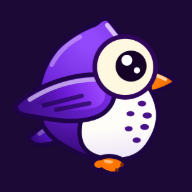
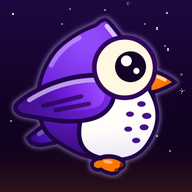
v0.12.77: ШАЗАМ не отменяет опасные трубы и водонапор; новая иконка приложения

diff --git a/app.html b/app.html
@@ -8,26 +8,27 @@
     <meta name="supported-color-schemes" content="only light">
     <meta name="theme-color" content="#140326">
     <link rel="manifest" href="manifest.webmanifest">
-    <link rel="icon" type="image/png" href="icons/icon-192.png">
+    <link rel="icon" type="image/png" href="icons/icon-192.png?v=2">
+    <link rel="apple-touch-icon" href="icons/apple-touch-icon.png?v=2">
     <meta name="viewport" content="width=device-width, initial-scale=1.0, maximum-scale=1.0, user-scalable=no">
     <title>BUBOGAME v0.10</title>
     <!-- Font Awesome 6 Free -->
-    <link rel="stylesheet" href="css/fontawesome.css?v=0.12.76">
+    <link rel="stylesheet" href="css/fontawesome.css?v=0.12.77">
     <!-- Onest: локальные файлы -->
-    <link rel="stylesheet" href="css/fonts.css?v=0.12.76">
+    <link rel="stylesheet" href="css/fonts.css?v=0.12.77">
 
-    <script src="js/music-hold.js?v=0.12.76"></script>
-    <link rel="stylesheet" href="css/style.css?v=0.12.76">
+    <script src="js/music-hold.js?v=0.12.77"></script>
+    <link rel="stylesheet" href="css/style.css?v=0.12.77">
     
     
-<link rel="stylesheet" href="css/admin.css?v=0.12.76" id="adminStyle">
+<link rel="stylesheet" href="css/admin.css?v=0.12.77" id="adminStyle">
     <!-- Tailwind: готовый файл стилей вместо онлайн-компилятора (тот следил за каждым изменением страницы и пересобирал стили прямо во время игры) -->
-    <link rel="stylesheet" href="css/tailwind.css?v=0.12.76">
+    <link rel="stylesheet" href="css/tailwind.css?v=0.12.77">
 </head>
 <body class="flex items-center justify-center h-full w-full">
     <!-- ЭКРАН ЗАГРУЗКИ: свои стили (не зависят от Tailwind); логотип ставится ровно на место логотипа главного меню -->
-    <link rel="stylesheet" href="css/boot.css?v=0.12.76">
-    <link rel="stylesheet" href="css/features.css?v=0.12.76">
+    <link rel="stylesheet" href="css/boot.css?v=0.12.77">
+    <link rel="stylesheet" href="css/features.css?v=0.12.77">
     <div id="bootLoader">
         <canvas class="bl-stars" id="blStars"></canvas>
         <div class="bl-haze"></div>
@@ -43,9 +44,9 @@
             </div>
             <div class="bl-tap" id="blGo">Тапни, чтобы продолжить</div>
         </div>
-        <div id="buildTag" style="display:block;position:absolute;left:0;right:0;bottom:6px;text-align:center;pointer-events:none;user-select:none;font:600 7px/1 monospace;color:rgba(255,255,255,.3);letter-spacing:.04em">v0.12.76</div>
+        <div id="buildTag" style="display:block;position:absolute;left:0;right:0;bottom:6px;text-align:center;pointer-events:none;user-select:none;font:600 7px/1 monospace;color:rgba(255,255,255,.3);letter-spacing:.04em">v0.12.77</div>
     </div>
-    <script src="js/boot.js?v=0.12.76"></script>
+    <script src="js/boot.js?v=0.12.77"></script>
     <div id="gameContainer" class="relative w-full h-full max-w-md max-h-[920px] aspect-[9/16] shadow-2xl overflow-hidden flex flex-col justify-between bg-[#140326]">
         <!-- СТАРТОВЫЙ ЭКРАН / ГЛАВНОЕ МЕНЮ -->
         <div id="startScreen" class="absolute inset-0 z-30 flex flex-col justify-between p-3 bg-[#140326]/20 backdrop-blur-[7px] overflow-y-auto custom-scroll">
@@ -726,23 +727,23 @@
         </div>
     </div>
 
-    <script src="js/audio.js?v=0.12.76"></script>
-    <script src="js/game-core.js?v=0.12.76"></script>
-    <script src="js/owl.js?v=0.12.76"></script>
-    <script src="js/hud.js?v=0.12.76"></script>
-    <script src="js/scenery.js?v=0.12.76"></script>
-    <script src="js/items.js?v=0.12.76"></script>
-    <script src="js/shazam.js?v=0.12.76"></script>
-    <script src="js/crystals.js?v=0.12.76"></script>
-    <script src="js/water.js?v=0.12.76"></script>
-    <script src="js/quiz.js?v=0.12.76"></script>
-    <script src="js/weather.js?v=0.12.76"></script>
-    <script src="js/update.js?v=0.12.76"></script>
-    <script src="js/render.js?v=0.12.76"></script>
-    <script src="js/wheel.js?v=0.12.76"></script>
-    <script src="js/ui.js?v=0.12.76"></script>
-<script src="js/admin.js?v=0.12.76"></script>
-<script src="js/text-measure.js?v=0.12.76"></script>
-<script src="js/fullscreen.js?v=0.12.76"></script>
+    <script src="js/audio.js?v=0.12.77"></script>
+    <script src="js/game-core.js?v=0.12.77"></script>
+    <script src="js/owl.js?v=0.12.77"></script>
+    <script src="js/hud.js?v=0.12.77"></script>
+    <script src="js/scenery.js?v=0.12.77"></script>
+    <script src="js/items.js?v=0.12.77"></script>
+    <script src="js/shazam.js?v=0.12.77"></script>
+    <script src="js/crystals.js?v=0.12.77"></script>
+    <script src="js/water.js?v=0.12.77"></script>
+    <script src="js/quiz.js?v=0.12.77"></script>
+    <script src="js/weather.js?v=0.12.77"></script>
+    <script src="js/update.js?v=0.12.77"></script>
+    <script src="js/render.js?v=0.12.77"></script>
+    <script src="js/wheel.js?v=0.12.77"></script>
+    <script src="js/ui.js?v=0.12.77"></script>
+<script src="js/admin.js?v=0.12.77"></script>
+<script src="js/text-measure.js?v=0.12.77"></script>
+<script src="js/fullscreen.js?v=0.12.77"></script>
 </body>
 </html>

diff --git a/js/hud.js b/js/hud.js
@@ -996,7 +996,7 @@ function spawnPipe(startX) {
         if (itemType === 'icecream') pipesSinceIceCream = 0;
     }
     // редкий значок — «Опасные трубы» или «Водонапор» (что именно, решает случай): выпадает на месте обычного значка (не темы и не секретной звезды), когда набралось достаточно тем
-    if (crystalPending && crystalTime <= 0 && !shazamBusy() && itemType !== 'secret' && !(CATEGORIES[itemType] && CATEGORIES[itemType].count)) { itemType = (typeof registerWater === 'function' && Math.random() < 0.5) ? 'water' : 'crystal'; crystalPending = false; }   // случайно: «Опасные трубы» или «Водонапор»
+    if (crystalPending && crystalTime <= 0 && itemType !== 'secret' && !(CATEGORIES[itemType] && CATEGORIES[itemType].count)) { itemType = (typeof registerWater === 'function' && Math.random() < 0.5) ? 'water' : 'crystal'; crystalPending = false; }   // случайно: «Опасные трубы» или «Водонапор»
     if (typeof shazamBlockedType === 'function' && shazamBlockedType(itemType)) itemType = 'question';   // в ШАЗАМе щит, заморозка и т.п. на пути не появляются
     lastSpawnedItemType = itemType;
     const tokenRadius = 26;

diff --git a/js/crystals.js b/js/crystals.js
@@ -41,7 +41,6 @@ function crystalReset() { crystalTime = 0; crystals.length = 0; crystalRedK = 0;
 
 // значок взят: включаем эффект
 function registerCrystal() {
-    if (typeof shazamBusy === 'function' && shazamBusy()) return null;   // в ШАЗАМе не действует
     crystalTime = CRYSTAL.SEC * 60; CRYSTAL.id++;
     try { AudioFX.playStarCollect(); AudioFX.playPipesHeat(); Haptics.powerup(); } catch (e) {}
     return { target: 'other', text: `Опасные трубы ${CRYSTAL.SEC}с`, color: CRYSTAL.COLOR, icon: 'fa-fire' };
@@ -102,7 +101,6 @@ function crystalBurst(x, y, n) {
 // вызывается каждый кадр после движения труб: speed — скорость, с которой уезжают трубы, squeeze — текущее сужение проёма
 function crystalUpdate(speed, squeeze) {
     const dt = dtMult, shz = typeof shazamBusy === 'function' && shazamBusy();
-    if (shz) crystalTime = 0;
     // новая игра (тем снова 0): план выпадения — заново
     if (CRYSTAL.plan && CRYSTAL.plan.some((q) => q.done) && getTotalCollectedThemes() === 0) { CRYSTAL.plan = null; crystalPending = false; }
     crystalRedK = Math.max(0, Math.min(1, crystalRedK + (crystalTime > 0 ? 1 : -1) * dt / 50));   // трубы краснеют и остывают ~0,8 с

diff --git a/js/shazam.js b/js/shazam.js
@@ -150,10 +150,10 @@ function shazamAddStreak(burst) {
 // все таймерные эффекты — в ноль (в ШАЗАМе он один)
 function shazamClearEffects() {
     shieldTime = 0; shieldAppearAnim = 0; infiniteStaminaTime = 0; compressionTime = 0;
-    speedBoostTime = 0; slowMotionTime = 0; overeatTime = 0; drunkTime = 0; freezeTime = 0; crystalTime = 0; if (typeof waterTime !== 'undefined') waterTime = 0;
+    speedBoostTime = 0; slowMotionTime = 0; overeatTime = 0; drunkTime = 0; freezeTime = 0;   // «Опасные трубы» и «Водонапор» не сбрасываются: ШАЗАМ сбивает огоньки и прорезает воду
 }
 // эти значки во время ШАЗАМа не появляются на пути, а взятые — не дают эффекта
-const SHZ_BLOCKED = ['shield', 'slowmo', 'compress', 'speedup', 'icecream', 'crystal', 'water'];
+const SHZ_BLOCKED = ['shield', 'slowmo', 'compress', 'speedup', 'icecream'];
 function shazamBlockedType(t) { return shazamBusy() && SHZ_BLOCKED.includes(t); }
 
 function shazamUpdate() {

diff --git a/js/water.js b/js/water.js
@@ -13,7 +13,6 @@ function waterPipeWet() { return WATERFX.wetT > 0 ? Math.min(0.85, WATERFX.wetT 
 
 // значок взят: включаем эффект
 function registerWater() {
-    if (typeof shazamBusy === 'function' && shazamBusy()) return null;
     waterTime = WATERFX.SEC * 60; WATERFX.id++;
     try { AudioFX.playStarCollect(); AudioFX.playWaterStart(); Haptics.powerup(); } catch (e) {}
     return { target: 'other', text: `Водонапор ${WATERFX.SEC}с`, color: WATERFX.COLOR, icon: 'fa-droplet' };
@@ -213,7 +212,6 @@ function waterWetOwl(hx, hy) {
 }
 function waterUpdate(speed, squeeze) {
     const dt = dtMult, shz = typeof shazamBusy === 'function' && shazamBusy();
-    if (shz) waterTime = 0;
     let lv0 = 0; try { lv0 = getDifficultyIndex(); } catch (e) {}
     // сила по ступеням: Суперлайт/Лайт — слабый напор, Медиум/Медиум+ — средний, Хард/Хард+ — сильный (внутри ступени чуть растёт)
     const lv = [0, 0.8, 1.8, 2.8, 4, 5][Math.max(0, Math.min(5, lv0))];

diff --git a/index.html b/index.html
@@ -6,8 +6,8 @@
 <title>BUBOGAME</title>
 <meta name="theme-color" content="#140326">
 <link rel="manifest" href="manifest.webmanifest">
-<link rel="icon" type="image/png" href="icons/icon-192.png">
-<link rel="apple-touch-icon" href="icons/icon-192.png">
+<link rel="icon" type="image/png" href="icons/icon-192.png?v=2">
+<link rel="apple-touch-icon" href="icons/apple-touch-icon.png?v=2">
 <style>html,body{margin:0;height:100%;background:#07010f}</style>
 </head>
 <body>
